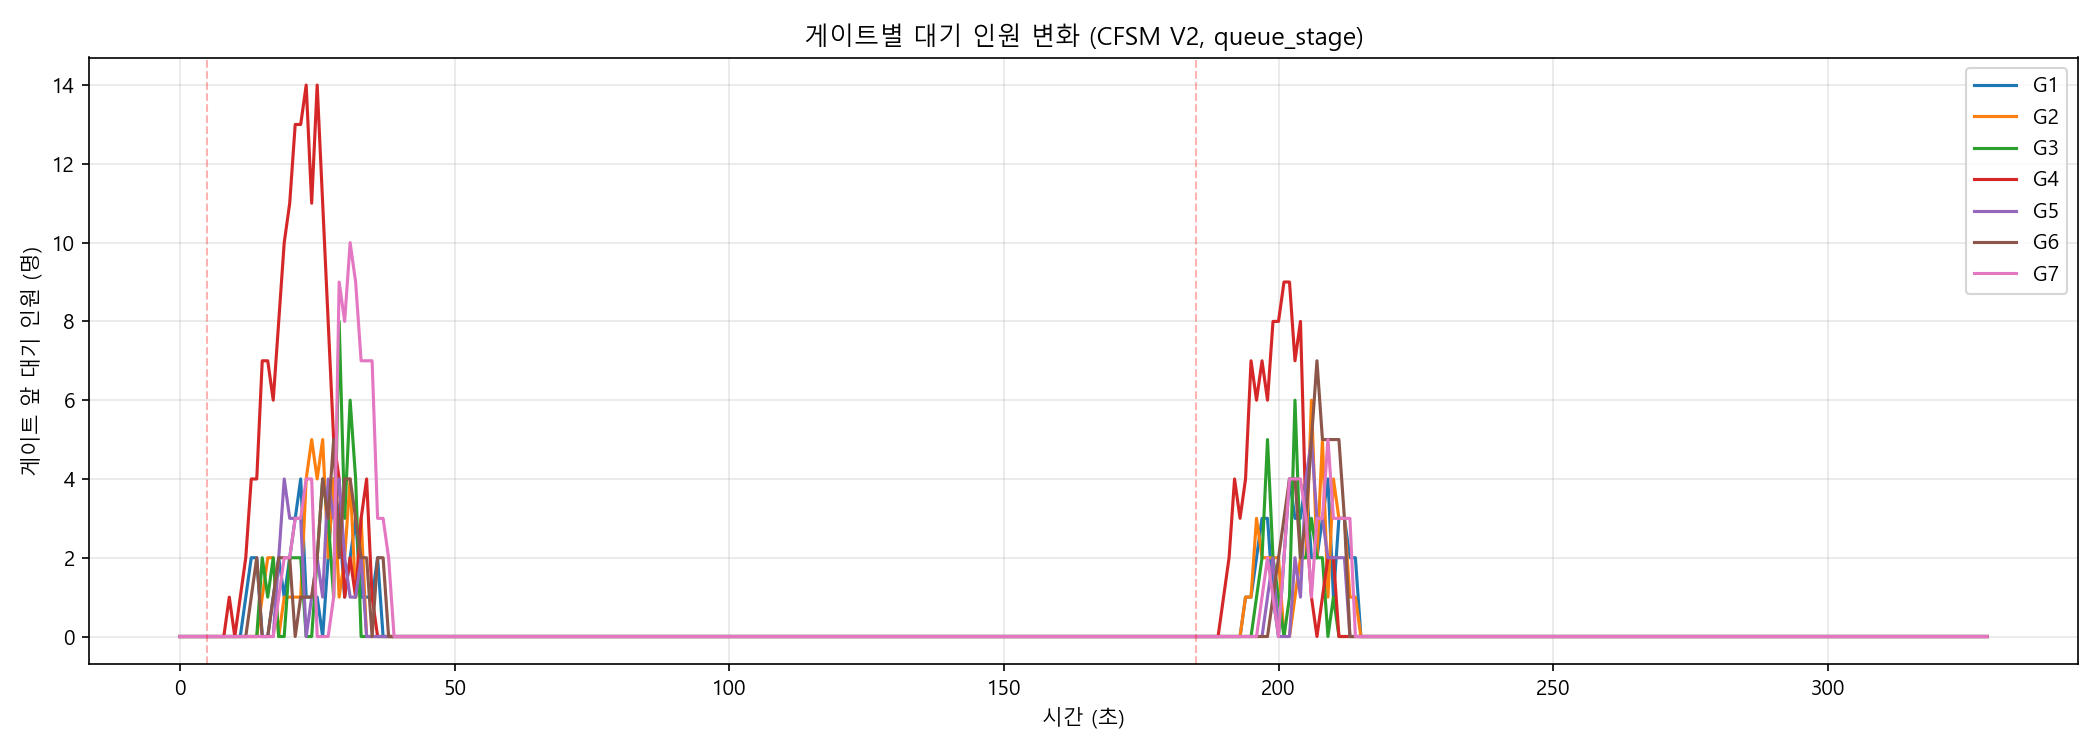
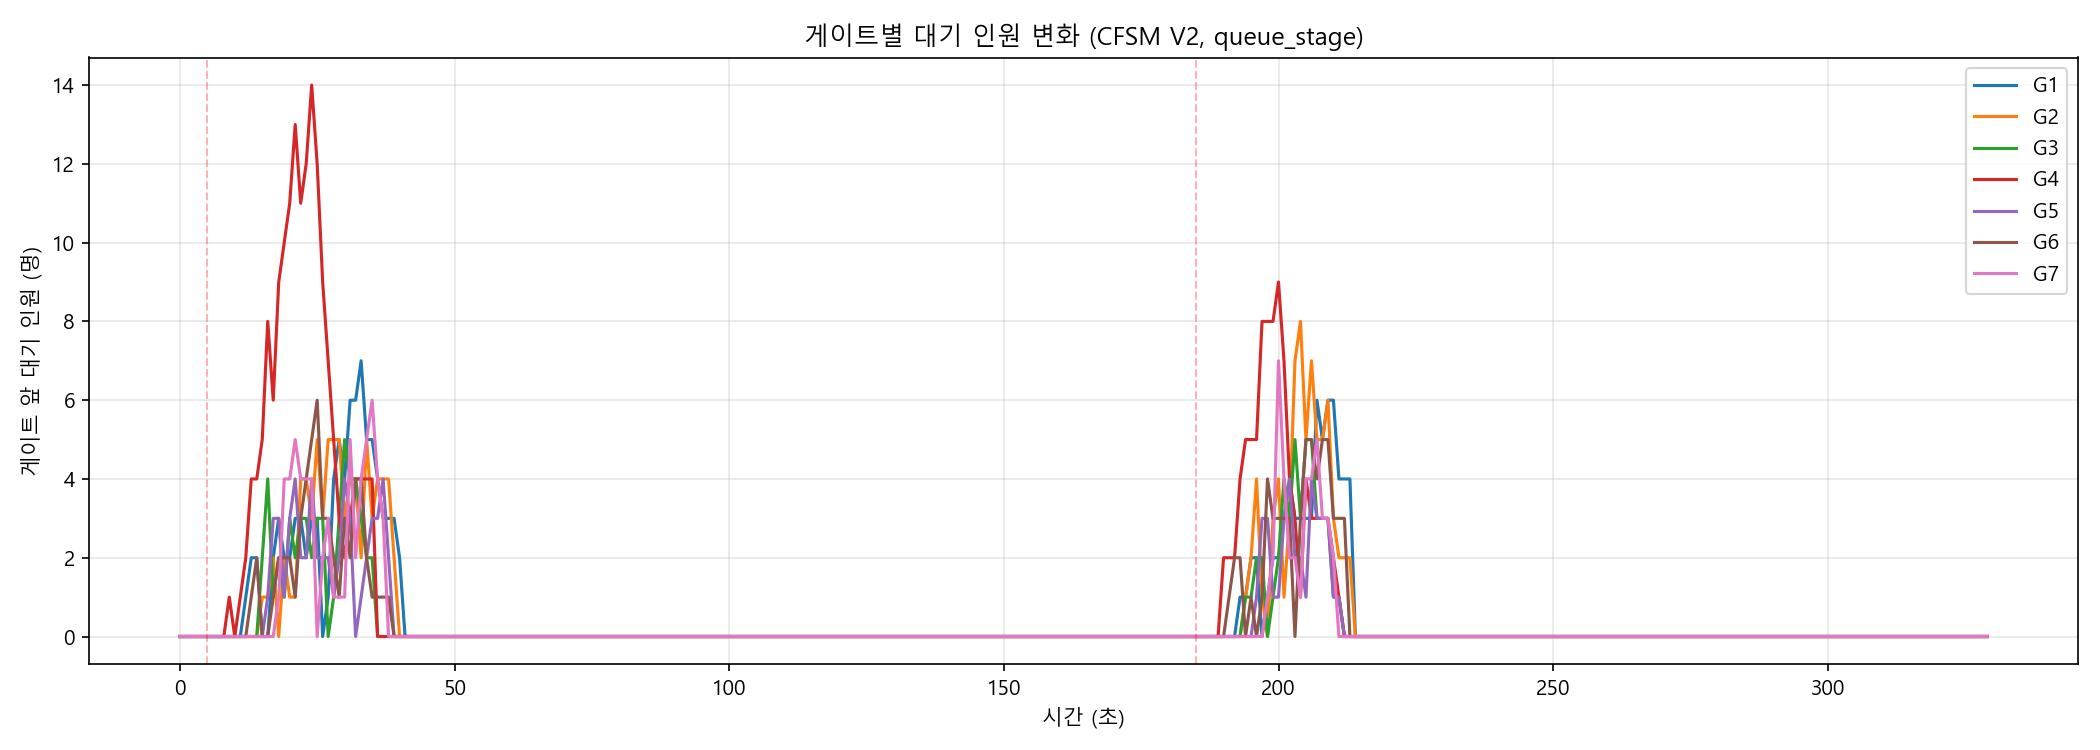
대기 간격 0.5m→0.3m, head를 게이트 입구(GATE_X)에 배치

Changed region(s): [[0.1238, 0.1227, 0.2167, 0.8587], [0.5571, 0.368, 0.65, 0.8587]]

diff --git a/simulation/run_west_simulation_cfsm.py b/simulation/run_west_simulation_cfsm.py
@@ -258,13 +258,14 @@ def create_simulation():
         approach_wp_ids.append(wp_id)
 
     # 2단계: Queue Stage (게이트 앞 대기열)
-    # head = 게이트 바로 앞, 이후 0.5m 간격으로 뒤로
+    # head = 게이트 입구, 이후 0.3m 간격으로 뒤로 (실제 대기 간격)
     queue_stage_ids = []
     queue_stages = []
+    QUEUE_SPACING = 0.3
     for i, g in enumerate(gates):
         positions = []
         for j in range(5):
-            positions.append((GATE_X - 0.1 - j * 0.5, g["y"]))
+            positions.append((GATE_X - j * QUEUE_SPACING, g["y"]))
         qid = sim.add_queue_stage(positions)
         queue_stage_ids.append(qid)
         queue_stages.append(sim.get_stage(qid))
